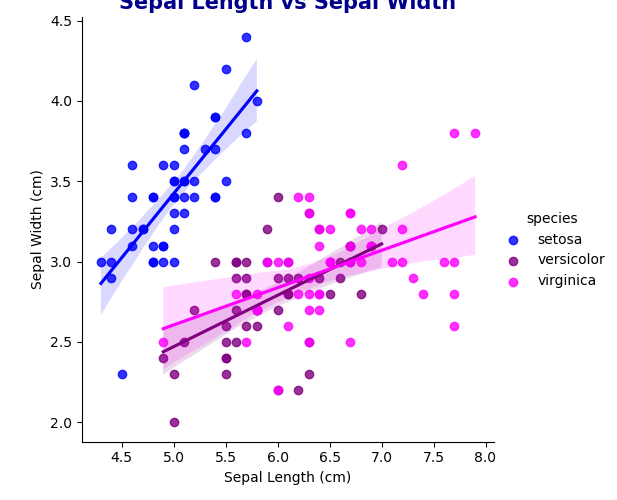
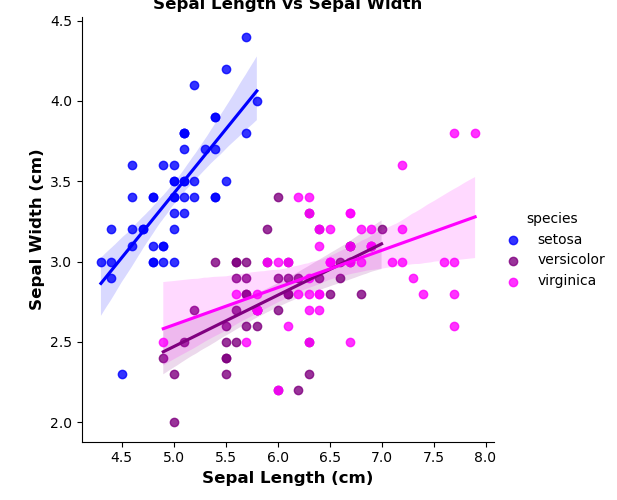
updated plots

diff --git a/analysis.py b/analysis.py
@@ -157,9 +157,9 @@ plt.close()
 
 # scatterplot of sepal length vs sepal width per species with regression line:
 sns.lmplot(x='sepal_length', y='sepal_width', data=df, hue='species', fit_reg=True, palette={'setosa': 'blue', 'versicolor': 'purple', 'virginica': 'magenta'})
-plt.xlabel('Sepal Length (cm)')
-plt.ylabel('Sepal Width (cm)')
-plt.title('Sepal Length vs Sepal Width', color='darkblue', fontsize=15, fontweight='bold')
+plt.xlabel('Sepal Length (cm)', color='black', fontsize=12, fontweight='bold')
+plt.ylabel('Sepal Width (cm)', color='black', fontsize=12, fontweight='bold')
+plt.title('Sepal Length vs Sepal Width', color='black', fontsize=12, fontweight='bold')
 plt.savefig('scatterplot_sepal.png')
 plt.close()
 
@@ -167,7 +167,7 @@ plt.close()
 sns.lmplot(x='petal_length', y='petal_width', data=df, hue='species', fit_reg=True, palette={'setosa': 'blue', 'versicolor': 'purple', 'virginica': 'magenta'} )
 plt.xlabel('Petal Length (cm)', fontsize=12, fontweight='bold')
 plt.ylabel('Petal Width (cm)', fontsize=12, fontweight='bold')
-plt.title('Petal Length vs Petal Width', color='darkblue', fontsize=15, fontweight='bold')
+plt.title('Petal Length vs Petal Width', color='black', fontsize=12, fontweight='bold')
 plt.savefig('scatterplot_petal.png')
 plt.close()
 

diff --git a/README.md b/README.md
@@ -38,7 +38,8 @@ The Iris dataset is a multivariate dataset consisting of 50 samples from three s
 
 ###    1. Import libraries:
 
-[Pandas]('https://pandas.pydata.org/docs/user_guide/10min.html') is a python library for data manipulation and analysis built on top of Numpy.It is used for the dataFrame datastructure.A dataframe is a 2D labelled data structure with columns of different data types, similar to a spreadsheet where each column represents a variable and each row represents an observation.
+[Pandas]('https://pandas.pydata.org/docs/user_guide/10min.html') is a python library for data manipulation and analysis built on top of Numpy.It is used for the dataFrame datastructure. 
+A dataframe is a 2D labelled data structure with columns of different data types, similar to a spreadsheet where each column represents a variable and each row represents an observation.
 
 [Numpy]('https://numpy.org/doc/stable/user/whatisnumpy.html') is a powerful library for the numerical computing of Python.
 
@@ -130,10 +131,20 @@ The plots are in a scatterplot matrix format where the row name represents the x
 
 Observations:
 
+
 ***
 
 A [Heatmap]('https://seaborn.pydata.org/generated/seaborn.heatmap.html') is used to visualise correlations between variables. 
 
 <img src='correlation_heatmap.png' height=600 width=600>
 
-<img src='scatterplot_petal.png' height=500 width=500>kiloi,
+
+Observations: 
+
+[Correlation](https://en.wikipedia.org/wiki/Pearson_correlation_coefficient) coefficients indicate the strength and direction of the linear relationship between the variables. Positive correlation indicates that as one variable increases the other variable tends to increase also. 
+A correlation of 0.96 is seen for petal length vs petal width. This is a strong positive correlation that is close to 1 between the variables. This means that as petal length increases petal width increases also. 
+
+***
+<img src='scatterplot_sepal.png' height=500 width=500>
+
+<img src='scatterplot_petal.png' height=500 width=500>
